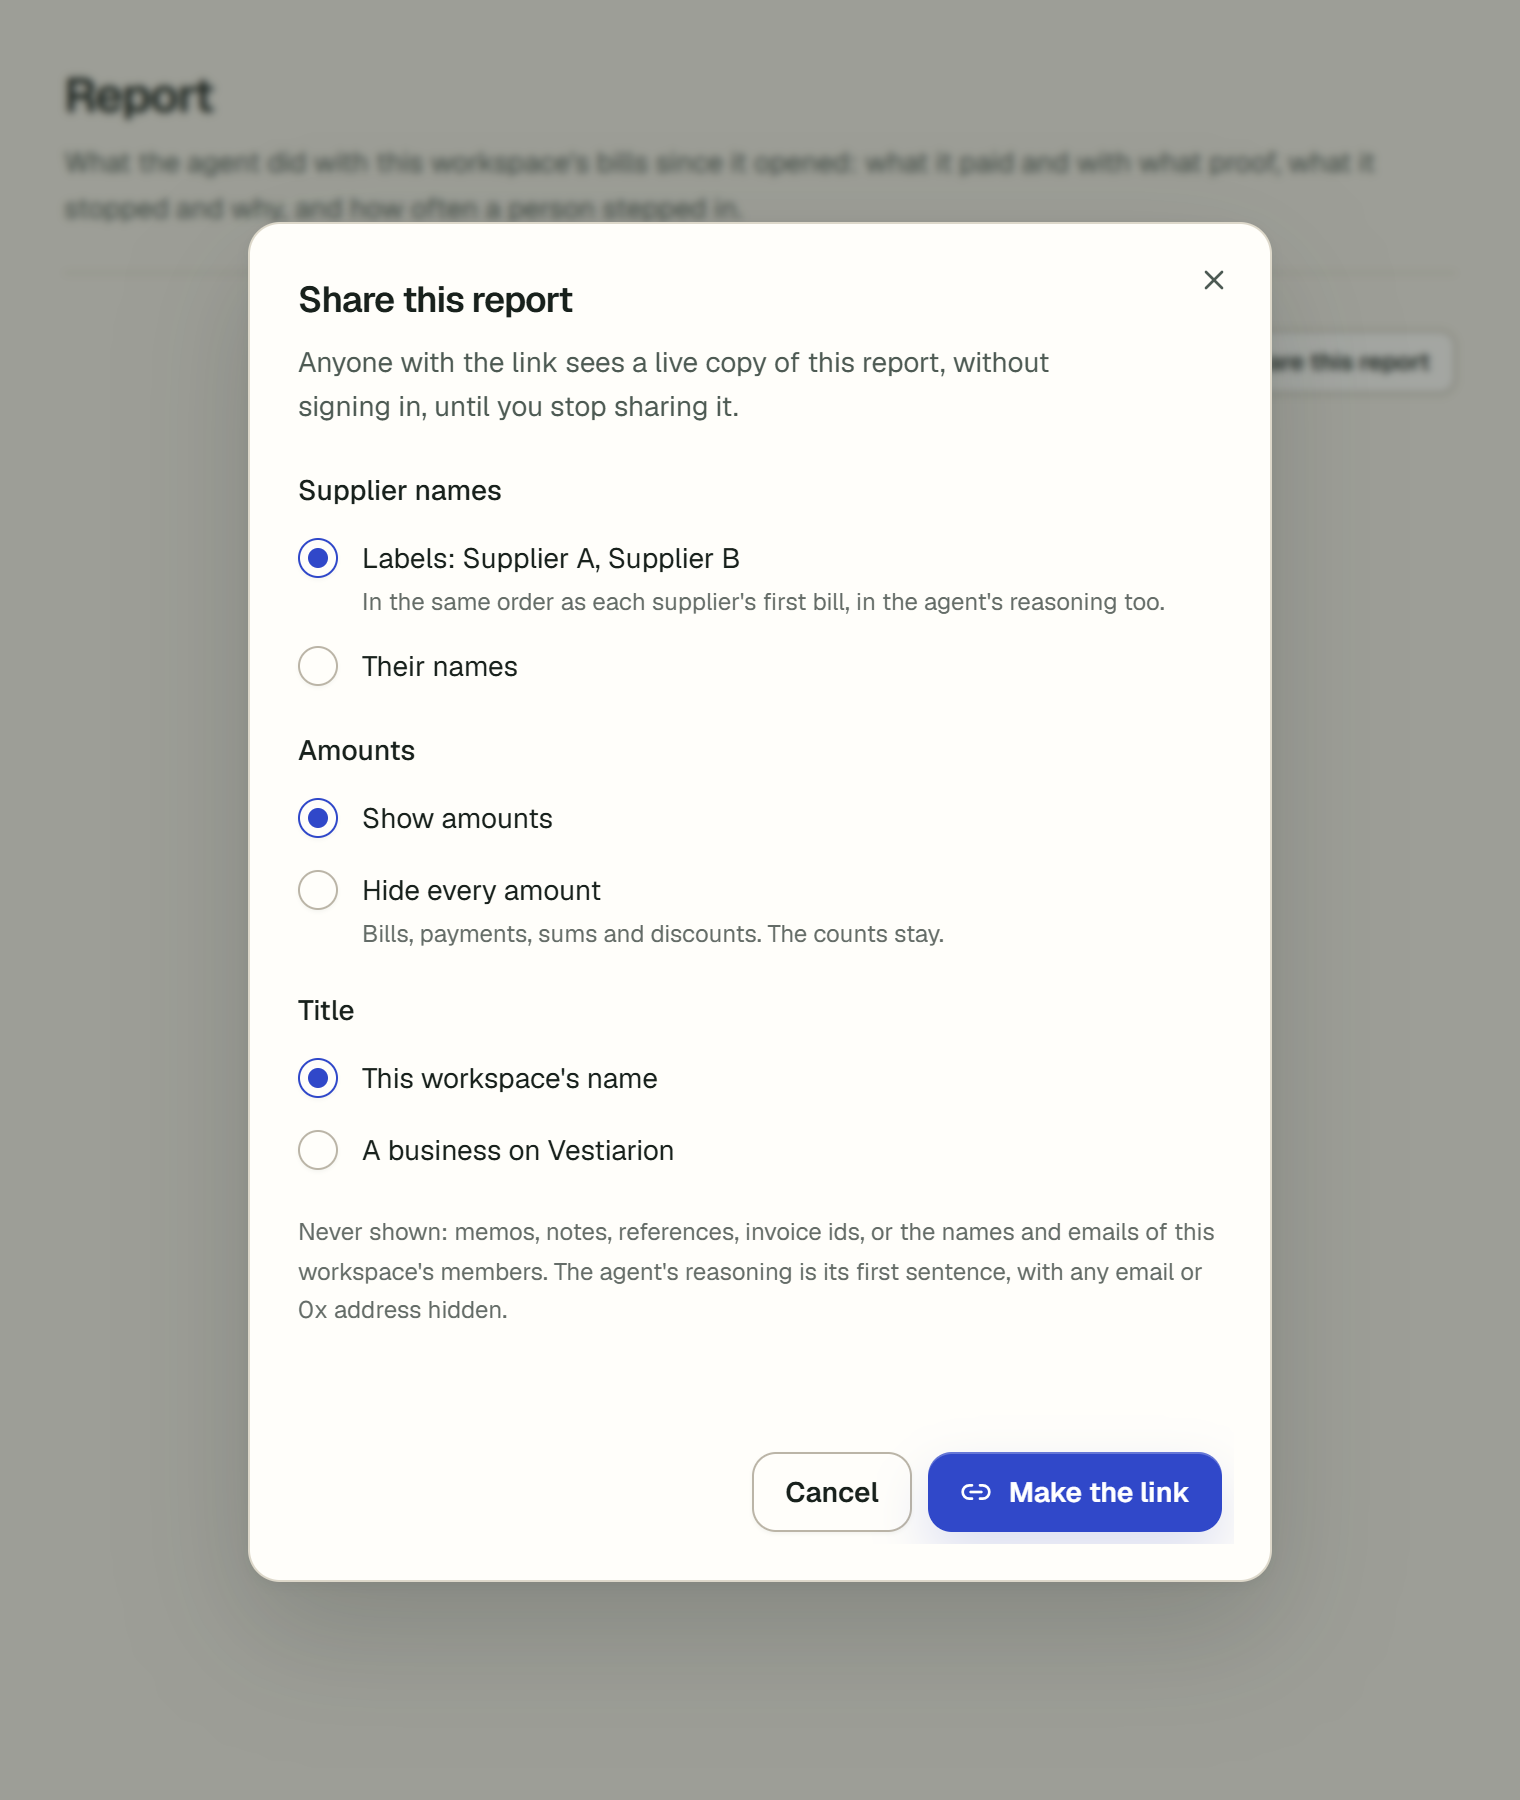
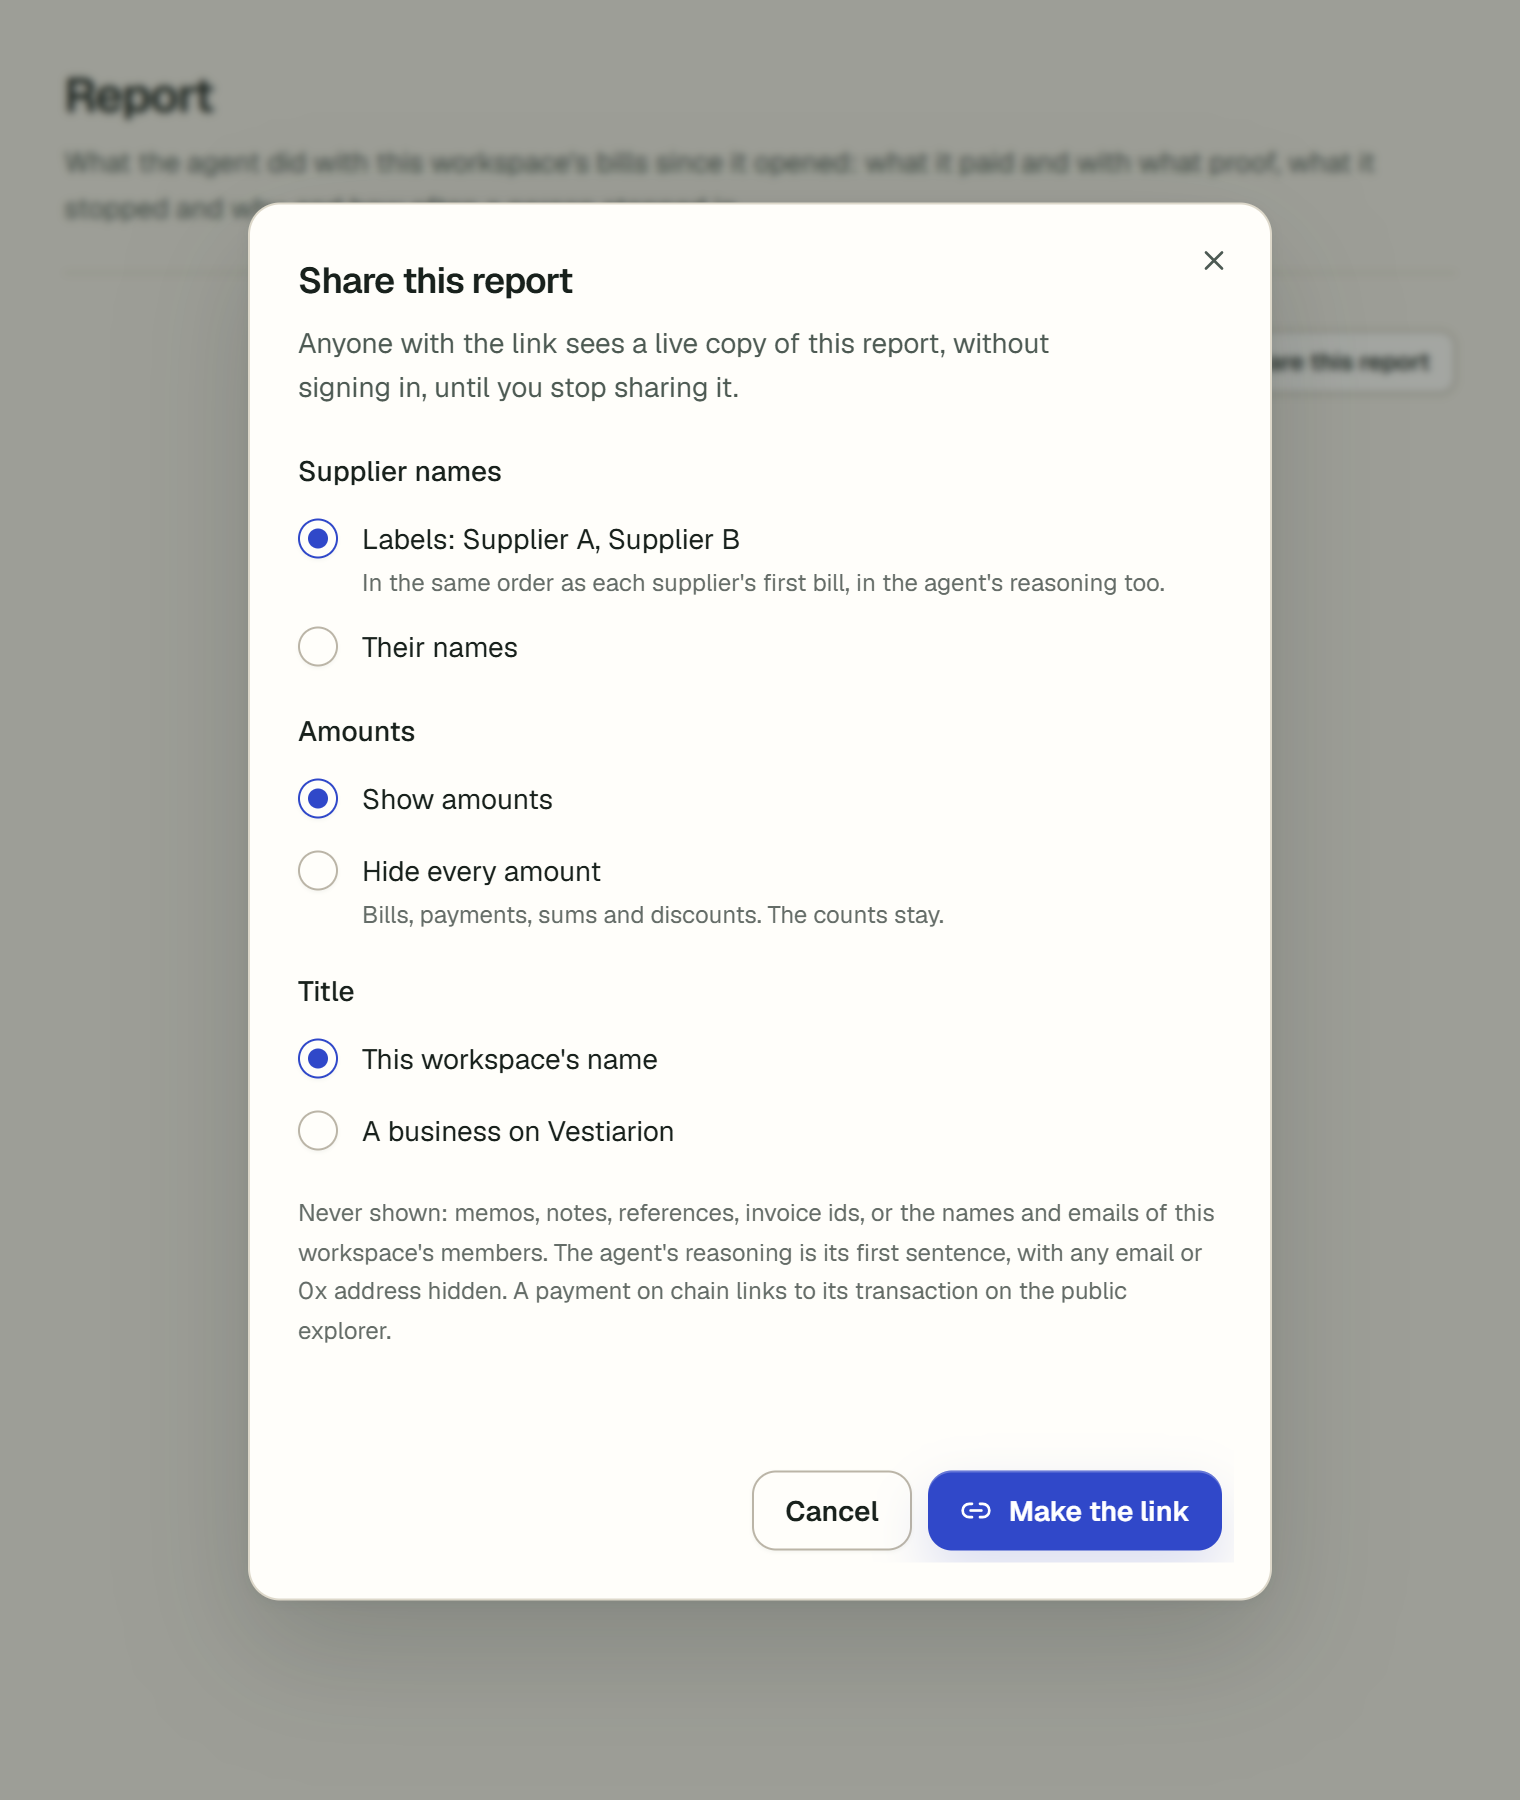
Say a shared payment links to the public explorer, and tick the plan
The share dialog and the guide say a payment on chain links to its
transaction on the public explorer, which shows the address it went to
whatever the copy hides. The dialog's picture is taken again.

diff --git a/src/components/ReportShareControl.tsx b/src/components/ReportShareControl.tsx
@@ -80,7 +80,7 @@ export function ReportShareButton({ orgSlug, available }: { orgSlug: string; ava
             <RadioGroup legend="Title" name="title" defaultValue="workspace" options={TITLES} />
             <p className="text-xs leading-relaxed text-ink-3">
               Never shown: memos, notes, references, invoice ids, or the names and emails of this workspace&apos;s members. The agent&apos;s reasoning is its
-              first sentence, with any email or 0x address hidden.
+              first sentence, with any email or 0x address hidden. A payment on chain links to its transaction on the public explorer.
             </p>
             <FormMessage tone="error">{error}</FormMessage>
             <DialogFooter>

diff --git a/docs/superpowers/plans/2026-10-10-shared-report.md b/docs/superpowers/plans/2026-10-10-shared-report.md
@@ -25,54 +25,54 @@
 
 **Files:** Create `supabase/migrations/0095_report_shares.sql`, `tests/report-share-migration.test.ts`. Modify `src/lib/dal/index.ts` (`TENANT_TABLES`, `PLATFORM_RPCS`), `tests/support/pglite.ts` (`TENANT_TABLES`, `seedOrgRows`), `tests/rls.test.ts`, `tests/account-deletion.test.ts`.
 
-- [ ] Test first: checks on both tables; token hash unique and 64 hex; the tenant may revoke but not change options or the hash, not clear a revocation, not delete; answers append-only; the function returns a live share with the name only when shown and null for a stopped or unknown one; only the service role runs it; tenant isolation; re-runnable.
-- [ ] Run: fails. Write the migration, add the tables to the lists and the seed, the deletion keys and the RLS branches.
-- [ ] Run the migration test, `rls`, `delete-org-migration`, `lifecycle-migration`, `dal`, `account-deletion`: pass. Commit.
+- [x] Test first: checks on both tables; token hash unique and 64 hex; the tenant may revoke but not change options or the hash, not clear a revocation, not delete; answers append-only; the function returns a live share with the name only when shown and null for a stopped or unknown one; only the service role runs it; tenant isolation; re-runnable.
+- [x] Run: fails. Write the migration, add the tables to the lists and the seed, the deletion keys and the RLS branches.
+- [x] Run the migration test, `rls`, `delete-org-migration`, `lifecycle-migration`, `dal`, `account-deletion`: pass. Commit.
 
 ### Task 2: Tokens and the agreement rate
 
 **Files:** Create `src/lib/report-share-token.ts`, `src/lib/verdict-rate.ts`, tests. Modify `src/components/ShadowModeSummary.tsx`, `src/components/vx/WorkspaceReport.tsx` to call `agreementRate`.
 
-- [ ] Tests first; implement; run; commit.
+- [x] Tests first; implement; run; commit.
 
 ### Task 3: The value groups, pure
 
 **Files:** Create `src/lib/report-value.ts`, `tests/report-value.test.ts`. Modify `src/lib/workspace-report.ts` (count bills stopped as duplicates).
 
-- [ ] Tests first: three groups, no total; estimate only with an answer and only from decided bills; duplicates not counted as saved; on-offer discounts not counted. Implement; run; commit.
+- [x] Tests first: three groups, no total; estimate only with an answer and only from decided bills; duplicates not counted as saved; on-offer discounts not counted. Implement; run; commit.
 
 ### Task 4: The shared view, pure
 
 **Files:** Create `src/lib/shared-report.ts`, `tests/shared-report.test.ts`.
 
-- [ ] Tests first: stable labels, names scrubbed from reasoning, amounts hidden everywhere, memos never, neutral title, sandbox and sample labels, agreement rate equal to the console's, comparison null without actuals and only recorded bills counted, decisions newest first capped at 50. Implement; run; commit.
+- [x] Tests first: stable labels, names scrubbed from reasoning, amounts hidden everywhere, memos never, neutral title, sandbox and sample labels, agreement rate equal to the console's, comparison null without actuals and only recorded bills counted, decisions newest first capped at 50. Implement; run; commit.
 
 ### Task 5: Shares and answers in the workspace
 
 **Files:** Create `src/lib/report-shares.ts`, `src/lib/report-baseline.ts`, tests.
 
-- [ ] Tests first over the fake client: only the hash stored; the entry with its options; a failed entry revokes the row; the cap of 10; stopping revokes then signs; stopping a stopped link refuses; answers validated, kept, signed; not ready before 0095. Implement; run; commit.
+- [x] Tests first over the fake client: only the hash stored; the entry with its options; a failed entry revokes the row; the cap of 10; stopping revokes then signs; stopping a stopped link refuses; answers validated, kept, signed; not ready before 0095. Implement; run; commit.
 
 ### Task 6: Commands and permission
 
 **Files:** Create `src/lib/commands/report.ts`, `tests/commands-report.test.ts`. Modify `src/lib/auth/roles.ts` (`report.share`), `src/lib/commands/policy.ts`, `src/lib/commands/index.ts`, `tests/roles.test.ts`.
 
-- [ ] Tests first; implement; run `commands-*`, `roles`; commit.
+- [x] Tests first; implement; run `commands-*`, `roles`; commit.
 
 ### Task 7: The public read
 
 **Files:** Create `src/lib/platform/shared-report.ts`, `tests/platform-shared-report.test.ts`.
 
-- [ ] Tests first: malformed token never looked up; null and missing function read as no share; a live one is read inside its own workspace's scope and built with its options. Implement; run; commit.
+- [x] Tests first: malformed token never looked up; null and missing function read as no share; a live one is read inside its own workspace's scope and built with its options. Implement; run; commit.
 
 ### Task 8: The pages
 
 **Files:** Create `src/app/actions/report-share.ts`, `src/components/ReportShareControl.tsx`, `src/components/ReportBaselineControl.tsx`, `src/components/vx/ReportValue.tsx`, `src/components/vx/SharedReport.tsx`, `src/app/report/[token]/page.tsx`, `tests/shared-report-view.test.tsx`. Modify `src/app/o/[slug]/report/page.tsx`, `src/components/vx/WorkspaceReport.tsx`, `src/lib/link-previews.ts`, `src/lib/analytics/redact.ts` and its test.
 
-- [ ] View test first; implement; run `access-gates`, view tests, link previews; commit.
+- [x] View test first; implement; run `access-gates`, view tests, link previews; commit.
 
 ### Task 9: Docs and verification
 
 **Files:** `content/docs/guides/report.mdx`, `content/docs/guides/shadow-mode.mdx`, `content/docs/guides/try-it.mdx`, `content/docs/changelog.mdx`, `README.md`, `ARCHITECTURE.md`, `docs/superpowers/specs/2026-10-09-workspace-report-design.md`, `tests/docs-guides.test.ts`; docs shots for the shared view.
 
-- [ ] Write the docs; grep for text this makes stale; `npm run verify`; `npm run build`; render the public page with no session (dev server or docs shots and headless Edge). Commit, push, open the PR.
+- [x] Write the docs; grep for text this makes stale; `npm run verify`; `npm run build`; render the public page with no session (dev server or docs shots and headless Edge). Commit. (Pushing and the PR are left to whoever merges the branch.)
